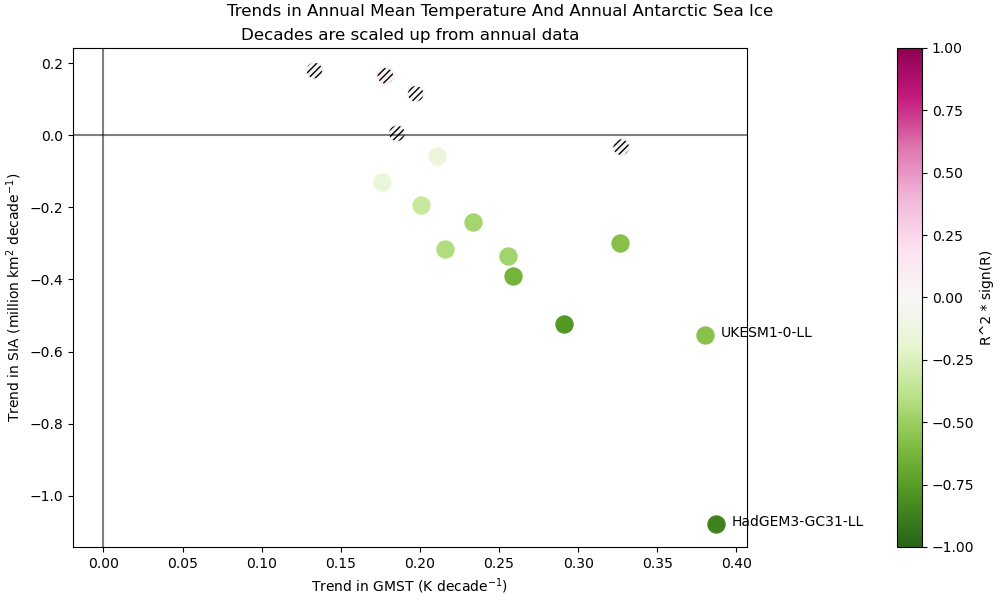
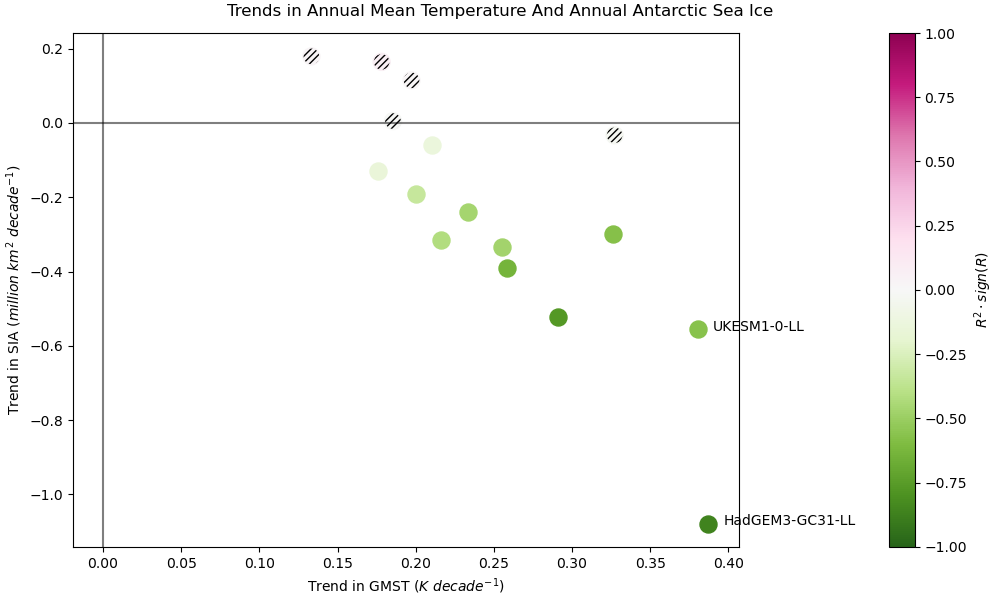
Tidying labels

diff --git a/esmvaltool/diag_scripts/seaice/seaice_sensitivity.py b/esmvaltool/diag_scripts/seaice/seaice_sensitivity.py
@@ -180,8 +180,8 @@ def notz_style_plot_from_dict(data_dictionary, titles_dictionary, cfg):
 
     # Set up the figure
     fig, ax = plt.subplots(figsize=(3.5, 6), layout="constrained")
-    fig.suptitle(titles_dictionary["titles"]["notz_fig_title"])
-    ax.set_title(titles_dictionary["titles"]["notz_ax_title"])  # Ed's title
+    fig.suptitle(titles_dictionary["titles"]["notz_fig_title"], wrap=True)
+    ax.set_title(titles_dictionary["titles"]["notz_ax_title"], wrap=True)
 
     # Iterate over the dictionary
     for dataset, inner_dict in data_dictionary.items():
@@ -231,7 +231,7 @@ def notz_style_plot_from_dict(data_dictionary, titles_dictionary, cfg):
     # Tidy the figure
     ax.set_xlim(0, 1)
     ax.set_xticks([])
-    ax.set_ylabel("dSIA/dGMST (million km$^2$ K$^{-1}$)")
+    ax.set_ylabel("dSIA/dGMST ($million \ km^2 \ K^{-1}$)")
 
     # Save the figure (also closes it)
     provenance_record = get_provenance_record(cfg)
@@ -248,7 +248,7 @@ def roach_style_plot_from_dict(data_dictionary, titles_dictionary, cfg):
     """Save a plot of trend in SIA against trend in GMST to the given filename."""
     # Set up the figure
     fig, ax = plt.subplots(figsize=(10, 6), layout="constrained")
-    fig.suptitle(titles_dictionary["titles"]["roach_fig_title"])
+    fig.suptitle(titles_dictionary["titles"]["roach_fig_title"], wrap=True)
 
     # Set up for colouring the points
     norm = Normalize(vmin=-1, vmax=1)
@@ -257,8 +257,8 @@ def roach_style_plot_from_dict(data_dictionary, titles_dictionary, cfg):
     # Set up the axes
     ax.axhline(color="black", alpha=0.5)
     ax.axvline(color="black", alpha=0.5)
-    ax.set_xlabel("Trend in GMST (K decade$^{-1}$)")
-    ax.set_ylabel("Trend in SIA (million km$^2$ decade$^{-1}$)")
+    ax.set_xlabel("Trend in GMST ($K \ decade^{-1}$)")
+    ax.set_ylabel("Trend in SIA ($million \ km^2 \ decade^{-1}$)")
 
     # Iterate over the dictionary
     for dataset, inner_dict in data_dictionary.items():
@@ -287,7 +287,7 @@ def roach_style_plot_from_dict(data_dictionary, titles_dictionary, cfg):
             plt.annotate(dataset, xy=(x, y), xytext=(x + 0.01, y - 0.005))
 
     # Add a colour bar
-    plt.colorbar(label="R^2 * sign(R)")
+    plt.colorbar(label="$R^2 \cdot sign(R)$")
 
     # Save the figure (also closes it)
     provenance_record = get_provenance_record(cfg)

diff --git a/doc/sphinx/source/recipes/recipe_seaice_sensitivity.rst b/doc/sphinx/source/recipes/recipe_seaice_sensitivity.rst
@@ -30,19 +30,24 @@ Years to be evaluated are specified in the ``extract_test_period`` preprocessor.
 .. code-block:: yaml
 
     pp_arctic_sept_sea_ice:
-      <<: *extract_test_period
-      <<: *extract_sept
-      <<: *nh_total_area
-
-    pp_antarctic_avg_ann_sea_ice:
-      <<: *extract_test_period
-      <<: *annual_mean
-      <<: *sh_total_area
-
-    pp_avg_ann_global_temp:
-      <<: *extract_test_period
-      <<: *global_mean
-      <<: *annual_mean
+      extract_time:
+        start_day: 1
+        start_month: 1
+        start_year: 1979
+        end_day: 31
+        end_month: 12
+        end_year: 2014
+      extract_month:
+        month: 9
+      extract_region:
+        start_longitude: 0
+        end_longitude: 360
+        start_latitude: 0
+        end_latitude: 90
+      area_statistics:
+        operator: sum
+      convert_units:
+        units: 1e6 km2
 
 Datasets
 --------
@@ -75,6 +80,6 @@ Example plots
    :align:   center
    :width:   18cm
 
-   Plot of the trend of annually averaged southern hemisphere sea ice area (millions of square kilometres) over time against the trend of annually and globally averaged air temperature near the surface (degrees Kelvin) over time.
+   Plot of the trend of annually averaged southern hemisphere sea ice area (millions of square kilometres) over time against the trend of annually and globally averaged air temperature near the surface (degrees Kelvin) over time. The values plotted are 10 times the annual trend, which was calculated using :func:`scipy.stats.linregress`, for consistency with the decadal values used in the published plot.
 
    The colour of each point is determined by the Pearson correlation coefficient between the two variables, and the hatching indicates a ``p_value`` greater than 0.05, both calculated using :func:`scipy.stats.linregress`.
